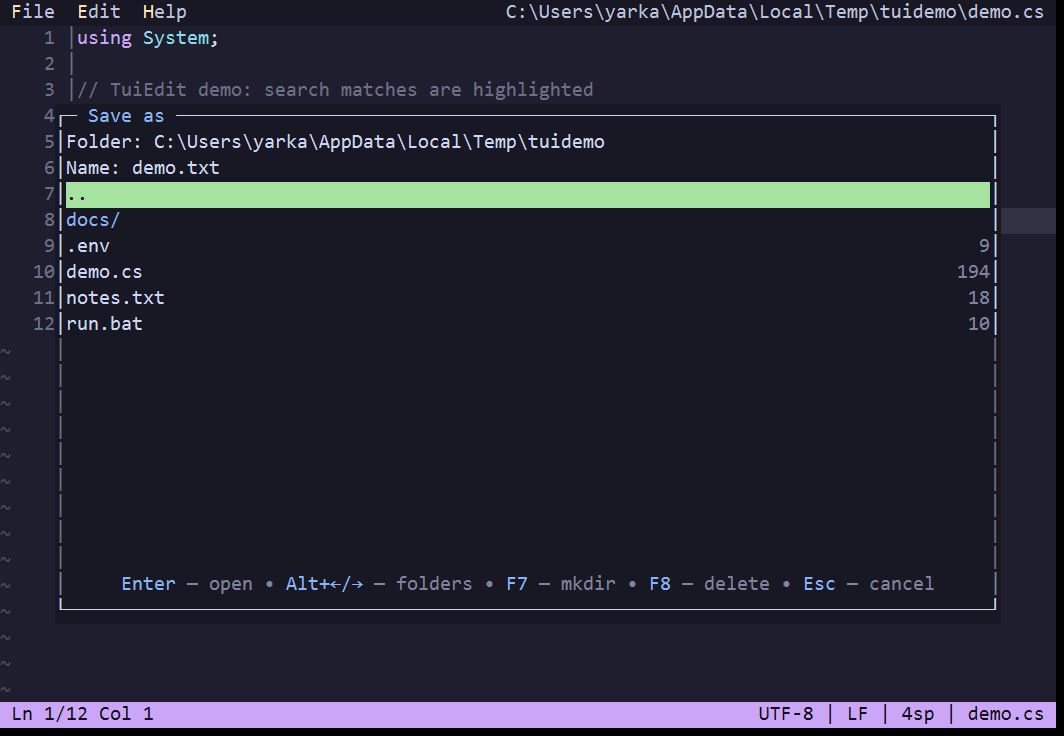
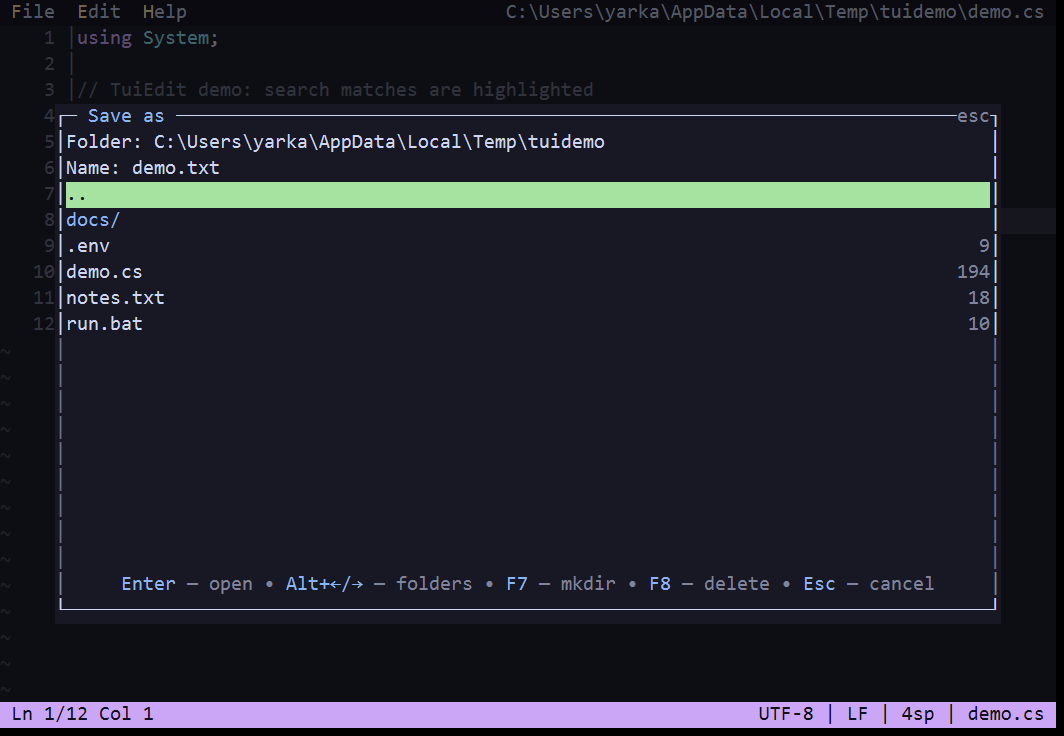
feat(dialogs): dimmed backdrop, top placement, esc hint; rebrand standalone

Changed region(s): [[0.0, 0.0, 0.9925, 0.9688]]

diff --git a/Ui/Dialog.cs b/Ui/Dialog.cs
@@ -18,25 +18,51 @@ internal abstract class Dialog
 
     protected virtual (Rgb fg, Rgb bg) FrameColors(Theme theme) => (theme.ModalFg, theme.ModalBg);
 
-    /// <summary>Цвет заголовка в рамке (по умолчанию акцент, как bold-title в opencode).</summary>
+    /// <summary>Цвет заголовка в рамке (по умолчанию акцент).</summary>
     protected virtual Rgb TitleFg(Theme theme) => theme.AccentFg;
+
+    /// <summary>Цвет приглушённых хинтов рамки (esc).</summary>
+    protected virtual Rgb HintFg(Theme theme) => theme.ModalHintFg;
 
     public void Draw(Screen screen, Theme theme, Loc loc)
     {
         DialogBox? box = Measure(screen.Width, screen.Height, loc);
         if (box is null)
             return;
+        DimBackdrop(screen);
         var (fg, bg) = FrameColors(theme);
-        DrawFrame(screen, GetTitle(loc), fg, bg, box.Value, TitleFg(theme));
+        DrawFrame(screen, GetTitle(loc), fg, bg, box.Value, TitleFg(theme), HintFg(theme));
         DrawContent(screen, theme, loc, fg, bg, box.Value);
     }
 
-    private static void DrawFrame(Screen screen, string title, Rgb fg, Rgb bg, DialogBox box, Rgb titleFg)
+    /// <summary>
+    /// Затемнить фон под окном (окно «всплывает»). Только truecolor;
+    /// в legacy-режиме пропускаем. Кадр за кадром стабильно: редактор
+    /// под окном перерисовывается свежим каждый Render.
+    /// </summary>
+    protected static void DimBackdrop(Screen screen)
+    {
+        if (!screen.TrueColor)
+            return;
+        var black = new Rgb(0, 0, 0);
+        for (int y = 0; y < screen.Height; y++)
+        {
+            for (int x = 0; x < screen.Width; x++)
+            {
+                Screen.Cell c = screen.At(x, y);
+                screen.Set(x, y, c.Ch, c.Fg.Blend(black, 0.55), c.Bg.Blend(black, 0.55));
+            }
+        }
+    }
+
+    private static void DrawFrame(Screen screen, string title, Rgb fg, Rgb bg, DialogBox box, Rgb titleFg, Rgb hintFg)
     {
         screen.Text(box.X0, box.Y0, Screen.TitleRow(title, box.W), fg, bg);
         int maxT = Math.Max(0, Math.Min(title.Length, box.W - 4));
         if (maxT > 0)
             screen.Text(box.X0 + 3, box.Y0, title[..maxT], titleFg, bg);
+        if (box.W >= 16 && maxT + 9 <= box.W)
+            screen.Text(box.X0 + box.W - 4, box.Y0, "esc", hintFg, bg);
         for (int y = box.Y0 + 1; y < box.Y0 + box.H - 1; y++)
             screen.Text(box.X0, y, "│" + new string(' ', box.W - 2) + "│", fg, bg);
         screen.Text(box.X0, box.Y0 + box.H - 1, "└" + new string('─', box.W - 2) + "┘", fg, bg);
@@ -91,6 +117,10 @@ internal abstract class Dialog
         }
     }
 
+    /// <summary>Верх окна: ниже центра (четверть экрана), но не выше центра для высоких окон.</summary>
+    internal static int TopY(int screenH, int boxH) =>
+        Math.Max(0, Math.Min((screenH - boxH) / 2, screenH / 4));
+
     /// <summary>Замер окна опций: подписи слева, значения в ровной колонке.</summary>
     internal static DialogBox? MeasureOptions(int screenW, int screenH, string title, string[] labels, string[] values)
     {
@@ -106,7 +136,7 @@ internal abstract class Dialog
         int boxW = Math.Min(Math.Max(inner + 2, title.Length + 6), screenW);
         int boxH = labels.Length + 2;
         int x0 = Math.Max(0, (screenW - boxW) / 2);
-        int y0 = Math.Max(0, (screenH - boxH) / 2);
+        int y0 = TopY(screenH, boxH);
         if (y0 + boxH > screenH)
             return null;
         return new DialogBox(x0, y0, boxW, boxH);

diff --git a/TuiEdit.Tests/DialogTests.cs b/TuiEdit.Tests/DialogTests.cs
@@ -51,6 +51,14 @@ public sealed class DialogTests : IDisposable
         return (Rgb)cell!.GetType().GetProperty("Fg")!.GetValue(cell)!;
     }
 
+    private static Rgb BgAt(Screen scr, int x, int y)
+    {
+        var cur = (Array)typeof(Screen).GetField("_cur", BindingFlags.Instance | BindingFlags.NonPublic)!
+            .GetValue(scr)!;
+        object? cell = cur.GetValue(x, y);
+        return (Rgb)cell!.GetType().GetProperty("Bg")!.GetValue(cell)!;
+    }
+
     [Fact]
     public void SpanHelpers()
     {
@@ -341,6 +349,44 @@ public sealed class DialogTests : IDisposable
         Assert.Contains("0.1.0", m.Lines[0]);
         Assert.Equal(string.Empty, m.Hint);
         Assert.Single(m.Buttons);
+    }
+
+    [Fact]
+    public void BlendMathAndTopY()
+    {
+        Assert.Equal(new Rgb(50, 50, 50), new Rgb(100, 100, 100).Blend(new Rgb(0, 0, 0), 0.5));
+        Assert.Equal(new Rgb(100, 100, 100), new Rgb(100, 100, 100).Blend(new Rgb(0, 0, 0), 0));
+        Assert.Equal(new Rgb(0, 0, 0), new Rgb(100, 100, 100).Blend(new Rgb(0, 0, 0), 1));
+        Assert.Equal(6, Dialog.TopY(24, 10)); // min(7, 6) — ниже центра
+        Assert.Equal(0, Dialog.TopY(24, 30)); // высокое окно — не выше нуля
+        Assert.Equal(7, Dialog.TopY(28, 6)); // min(11, 7)
+        DialogBox? box = Dialog.MeasureOptions(80, 24, "T", ["A", "B", "C"], ["x", "y", "z"]);
+        Assert.NotNull(box);
+        Assert.Equal(6, box.Value.Y0); // bh=5: min(9, 6)
+    }
+
+    [Fact]
+    public void DrawDimsBackdropAndHintsEsc()
+    {
+        var scr = new Screen();
+        scr.Resize(96, 28);
+        scr.Text(0, 0, "x", new Rgb(255, 255, 255), new Rgb(100, 100, 100));
+        var probe = new ProbeDialog { WantW = 30, WantH = 8 };
+        probe.Draw(scr, _theme, _loc);
+        Assert.Equal('x', CellAt(scr, 0, 0)); // символ цел, цвета пригашены
+        Assert.Equal(new Rgb(255, 255, 255).Blend(new Rgb(0, 0, 0), 0.55), FgAt(scr, 0, 0));
+        Assert.Equal(new Rgb(100, 100, 100).Blend(new Rgb(0, 0, 0), 0.55), BgAt(scr, 0, 0));
+        // esc справа в строке заголовка (бокс x0=33,w=30 → 59..61,y=10)
+        Assert.Equal('e', CellAt(scr, 59, 10));
+        Assert.Equal('s', CellAt(scr, 60, 10));
+        Assert.Equal('c', CellAt(scr, 61, 10));
+
+        var legacy = new Screen();
+        legacy.Resize(96, 28);
+        legacy.TrueColor = false;
+        legacy.Text(0, 0, "x", new Rgb(255, 255, 255), new Rgb(100, 100, 100));
+        probe.Draw(legacy, _theme, _loc);
+        Assert.Equal(new Rgb(100, 100, 100), BgAt(legacy, 0, 0)); // legacy — без затемнения
     }
 
     private sealed class ProbeDialog : Dialog

diff --git a/Ui/ModalDialog.cs b/Ui/ModalDialog.cs
@@ -20,6 +20,9 @@ internal sealed class ModalDialog : Dialog
     protected override Rgb TitleFg(Theme theme) =>
         _state.Danger ? theme.ModalDangerFg : theme.AccentFg;
 
+    protected override Rgb HintFg(Theme theme) =>
+        _state.Danger ? theme.ModalHintDangerFg : theme.ModalHintFg;
+
     protected override DialogBox? Measure(int screenW, int screenH, Loc loc)
     {
         bool vertical = _state.Kind is ModalKind.Recent or ModalKind.Restore or ModalKind.Tabs or ModalKind.Complete or ModalKind.Grep;
@@ -39,7 +42,7 @@ internal sealed class ModalDialog : Dialog
         int hintRows = _state.Hint.Length > 0 ? 1 : 0;
         int boxH = 1 + _state.Lines.Count + btnRows + hintRows + 1;
         int x0 = Math.Max(0, (screenW - boxW) / 2);
-        int y0 = Math.Max(0, (screenH - boxH) / 2);
+        int y0 = TopY(screenH, boxH);
         if (y0 + boxH > screenH)
             return null;
         return new DialogBox(x0, y0, boxW, boxH);

diff --git a/Ui/Rgb.cs b/Ui/Rgb.cs
@@ -7,6 +7,16 @@ public readonly record struct Rgb(byte R, byte G, byte B)
 
     public string ToAnsiBg() => $"\x1b[48;2;{R};{G};{B}m";
 
+    /// <summary>Смешать с другим цветом (t=0 — этот, t=1 — other).</summary>
+    public Rgb Blend(Rgb other, double t)
+    {
+        double k = Math.Clamp(t, 0, 1);
+        return new Rgb(
+            (byte)(R + (other.R - R) * k),
+            (byte)(G + (other.G - G) * k),
+            (byte)(B + (other.B - B) * k));
+    }
+
     /// <summary>Ближайший из 16 цветов консоли (fallback без VT).</summary>
     public ConsoleColor ToConsoleColor()
     {

diff --git a/Ui/FileDialog.cs b/Ui/FileDialog.cs
@@ -28,7 +28,7 @@ internal sealed class FileDialog : Dialog
     {
         int bw = Math.Min(Math.Max(screenW - 10, 30), screenW);
         int bh = Math.Min(Math.Max(screenH - 8, 14), screenH);
-        return new DialogBox(Math.Max(0, (screenW - bw) / 2), Math.Max(0, (screenH - bh) / 2), bw, bh);
+        return new DialogBox(Math.Max(0, (screenW - bw) / 2), TopY(screenH, bh), bw, bh);
     }
 
     protected override void DrawContent(Screen screen, Theme theme, Loc loc, Rgb fg, Rgb bg, DialogBox box)

diff --git a/Ui/Screen.cs b/Ui/Screen.cs
@@ -34,6 +34,10 @@ public sealed class Screen
             _cur[x, y] = new Cell(ch, fg, bg);
     }
 
+    /// <summary>Прочитать ячейку (для затемнения фона под диалогами).</summary>
+    public Cell At(int x, int y) =>
+        (uint)x < (uint)Width && (uint)y < (uint)Height ? _cur[x, y] : default;
+
     public void Text(int x, int y, string text, Rgb fg, Rgb bg)
     {
         ArgumentNullException.ThrowIfNull(text);

diff --git a/Ui/HelpDialog.cs b/Ui/HelpDialog.cs
@@ -50,7 +50,7 @@ internal sealed class HelpDialog : Dialog
         if (boxH < 5)
             return null;
         int x0 = Math.Max(0, (screenW - boxW) / 2);
-        int y0 = Math.Max(0, (screenH - boxH) / 2);
+        int y0 = TopY(screenH, boxH);
         if (y0 + boxH > screenH)
             return null;
         return new DialogBox(x0, y0, boxW, boxH);

diff --git a/CHANGELOG.md b/CHANGELOG.md
@@ -37,6 +37,9 @@ when a `v*` tag is pushed.
   `CopyOnSelect` is set, otherwise the selection stays for keyboard
   ops. Right-click copies a live selection; activation stays on
   press, so a drag-release can never fire a control.
+- Dialog look: dimmed backdrop (truecolor only), top-weighted
+  placement, `esc` hint in the title row. All MS Edit/nano
+  references removed; standalone wording throughout.
 
 ## [0.3.0] - 2026-09-08
 
